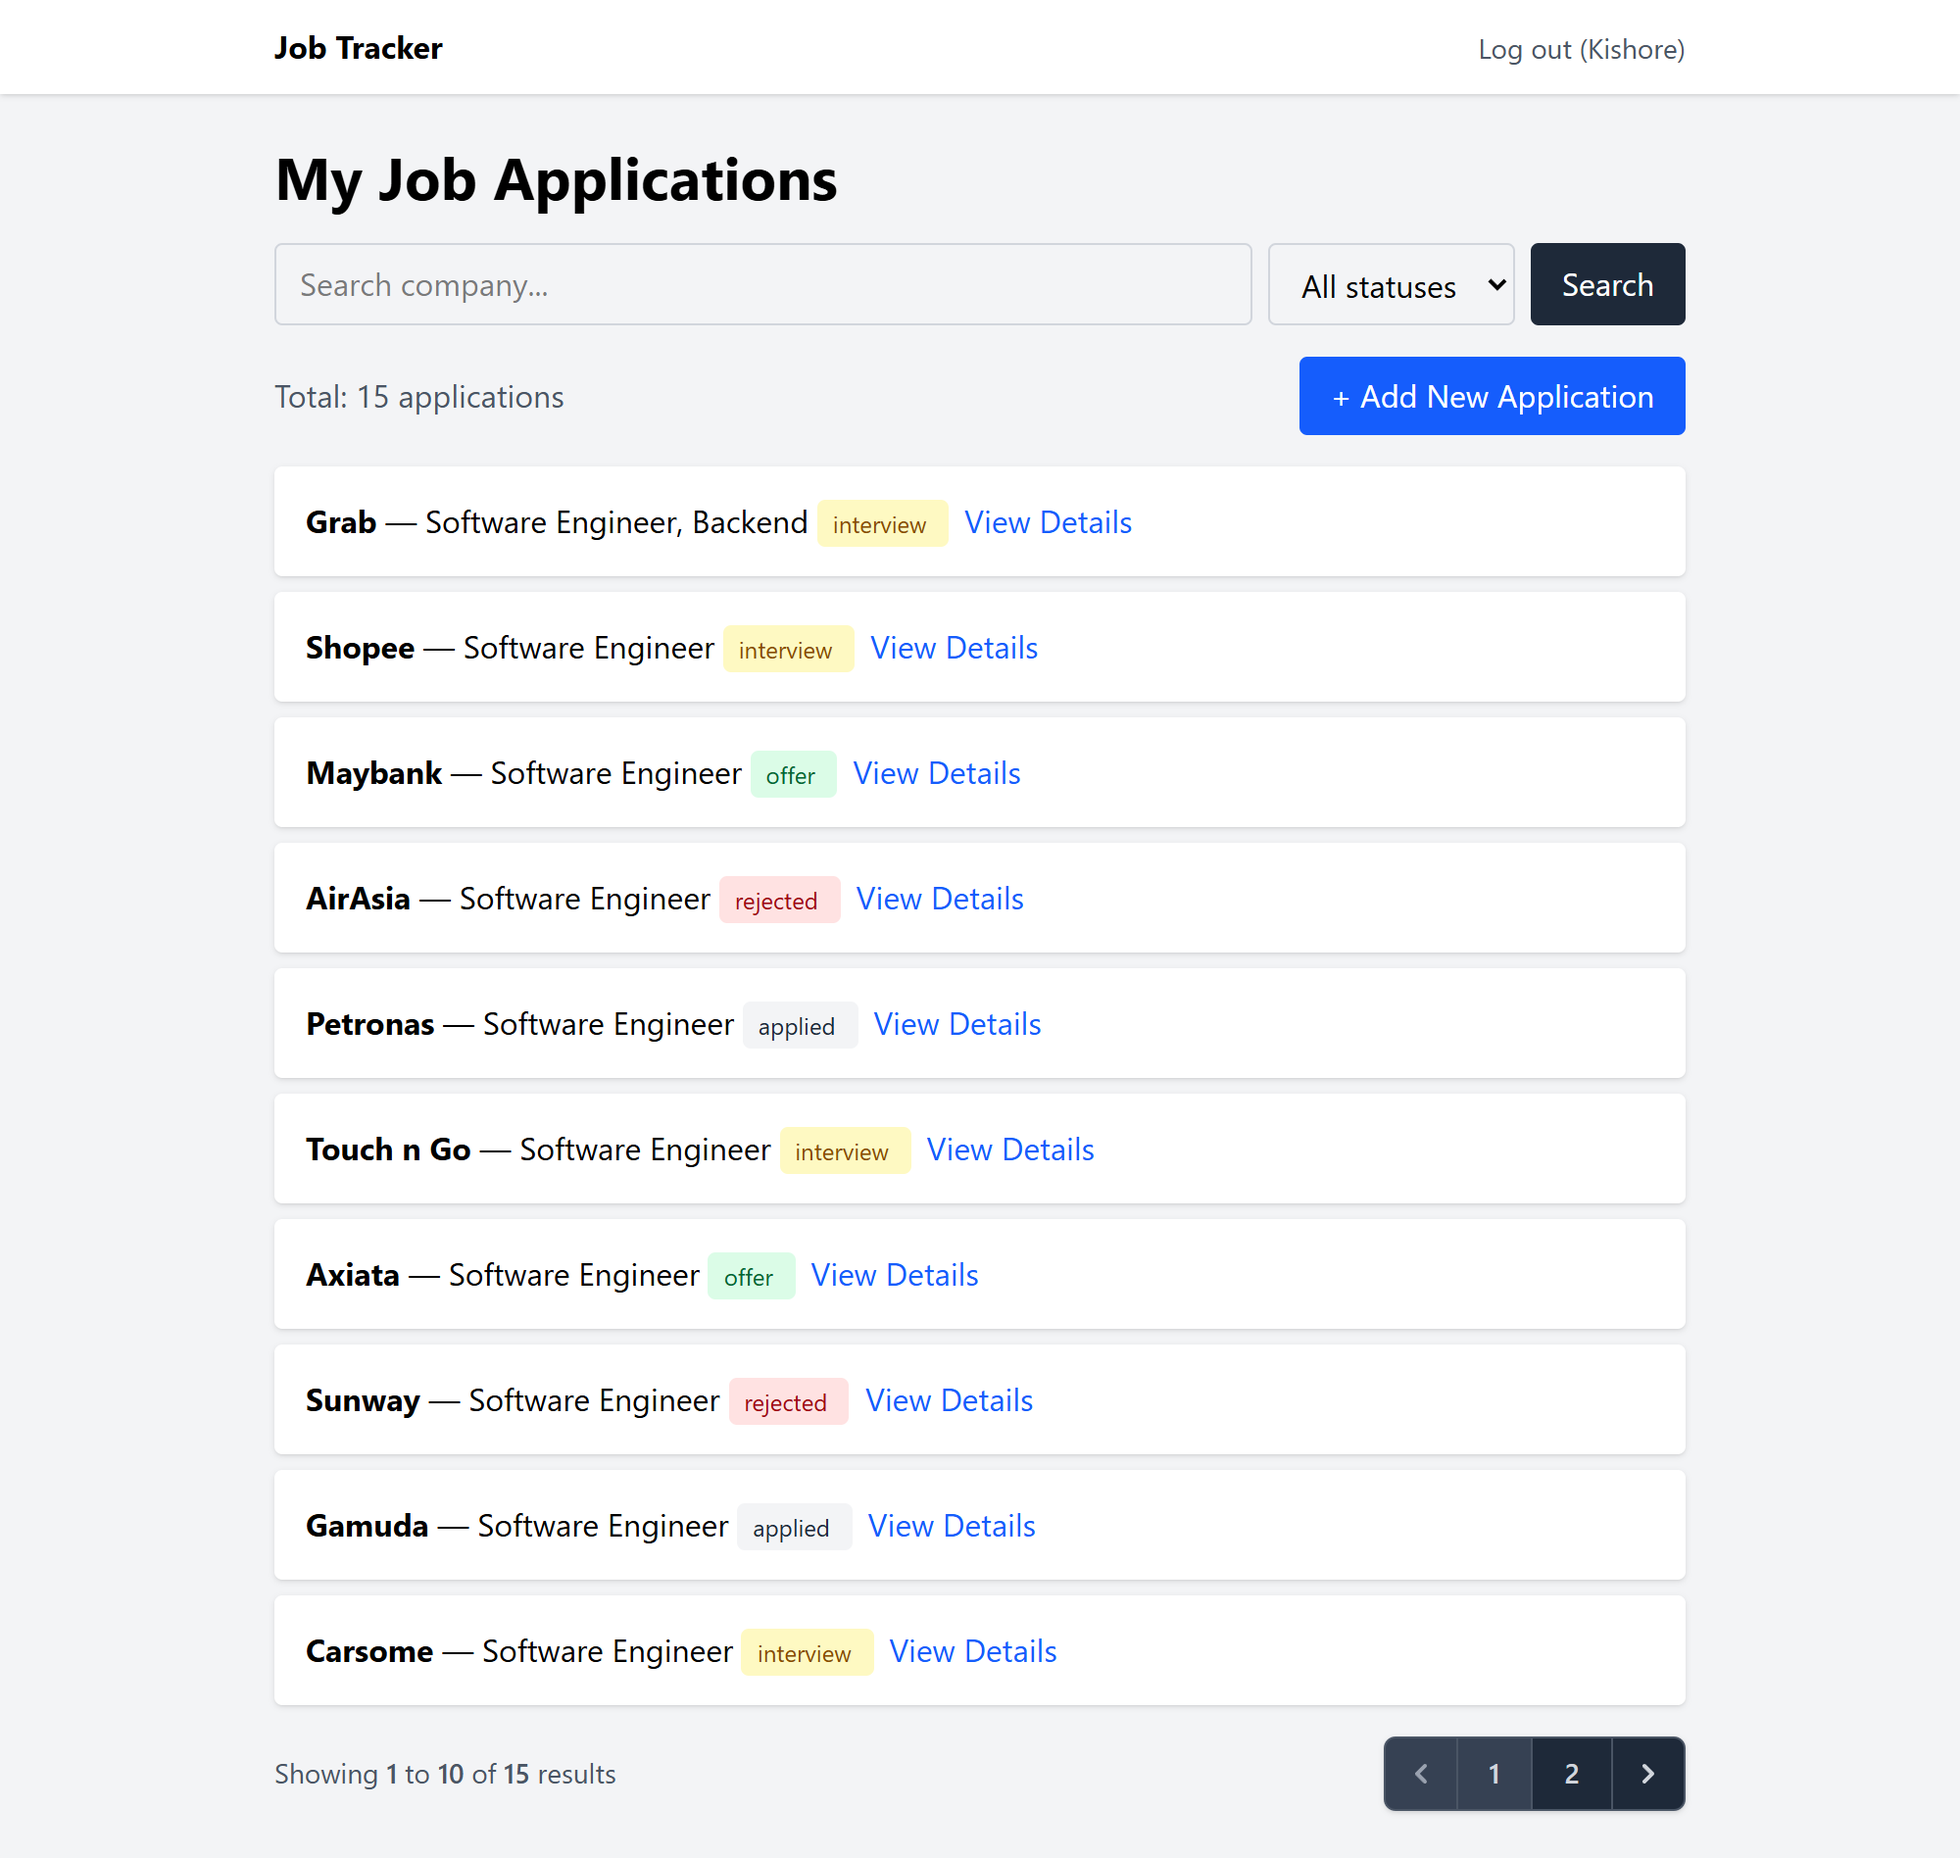
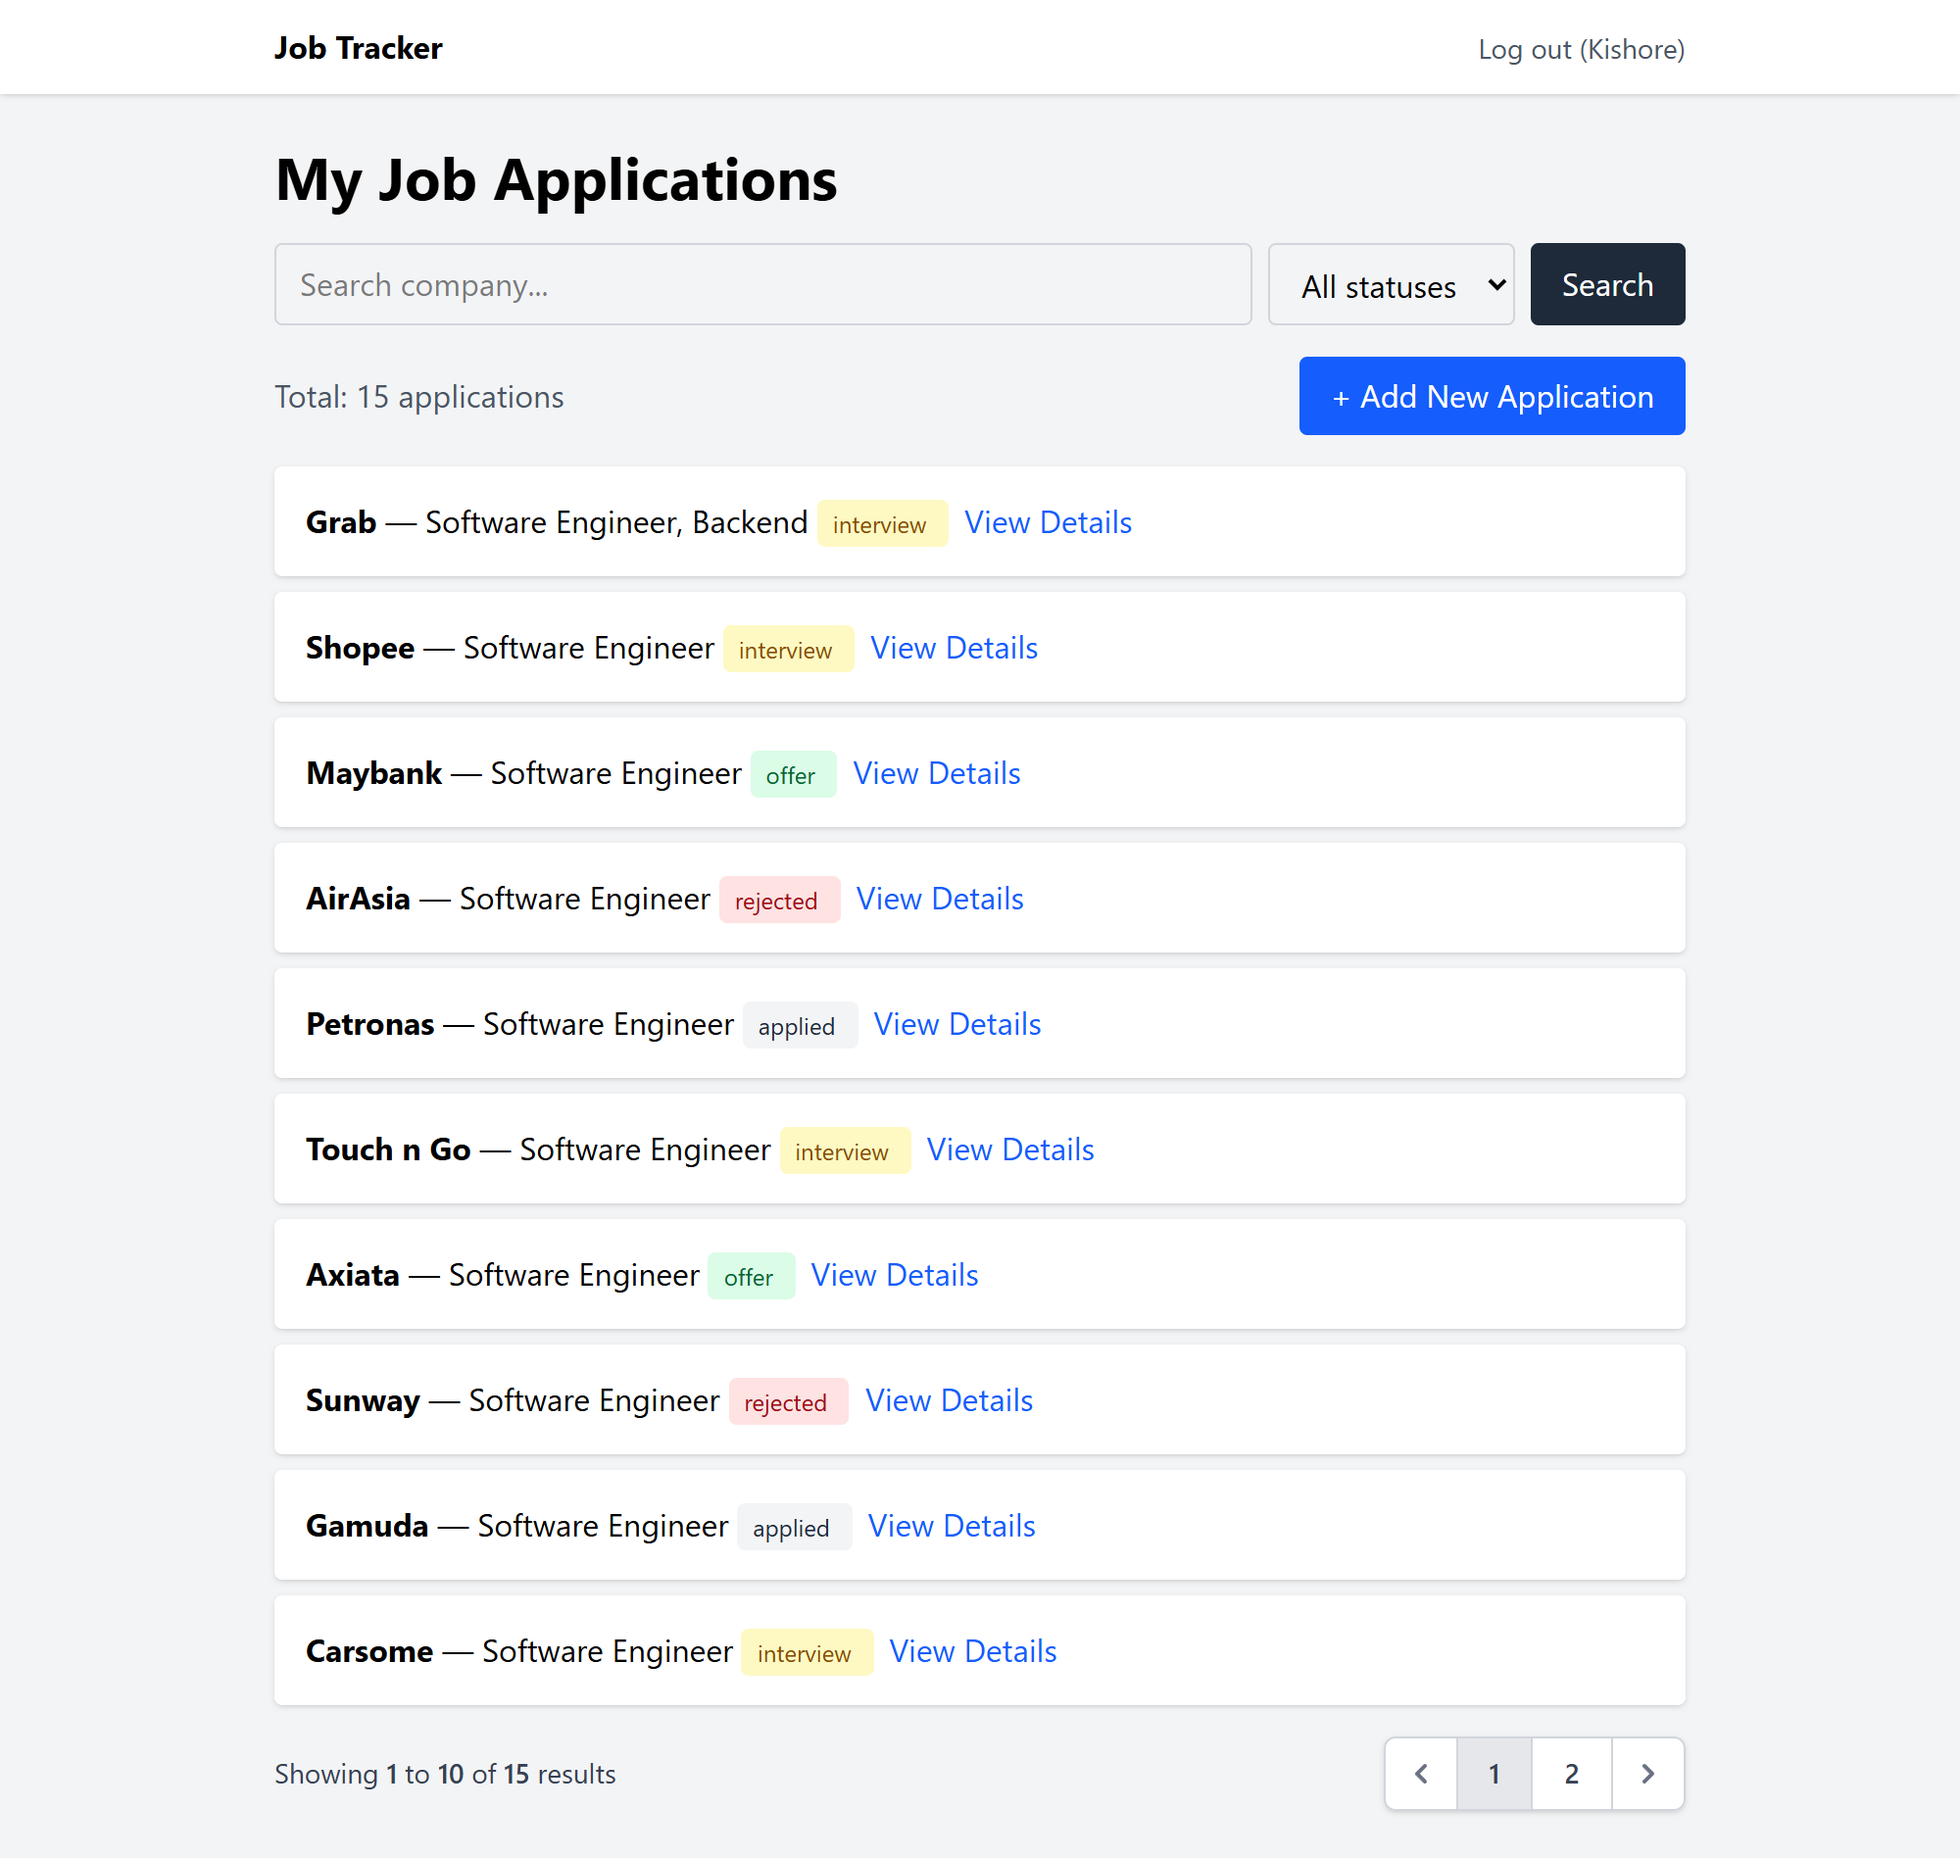
fix: consistent log in wording, class-based dark mode, remove unused welcome view

Changed region(s): [[0.682, 0.9335, 0.868, 0.9958]]

diff --git a/resources/css/app.css b/resources/css/app.css
@@ -1,4 +1,6 @@
 @import 'tailwindcss';
+@custom-variant dark (&:where(.dark, .dark *));
+
 
 @source '../../vendor/laravel/framework/src/Illuminate/Pagination/resources/views/*.blade.php';
 @source '../../storage/framework/views/*.php';

diff --git a/resources/views/auth/login.blade.php b/resources/views/auth/login.blade.php
@@ -35,7 +35,7 @@
     </div>
 
     <button type="submit" class="bg-blue-600 hover:bg-blue-700 text-white px-4 py-2 rounded">
-        Login
+        Log In
     </button>
 
     <p class="mt-4 text-sm">
